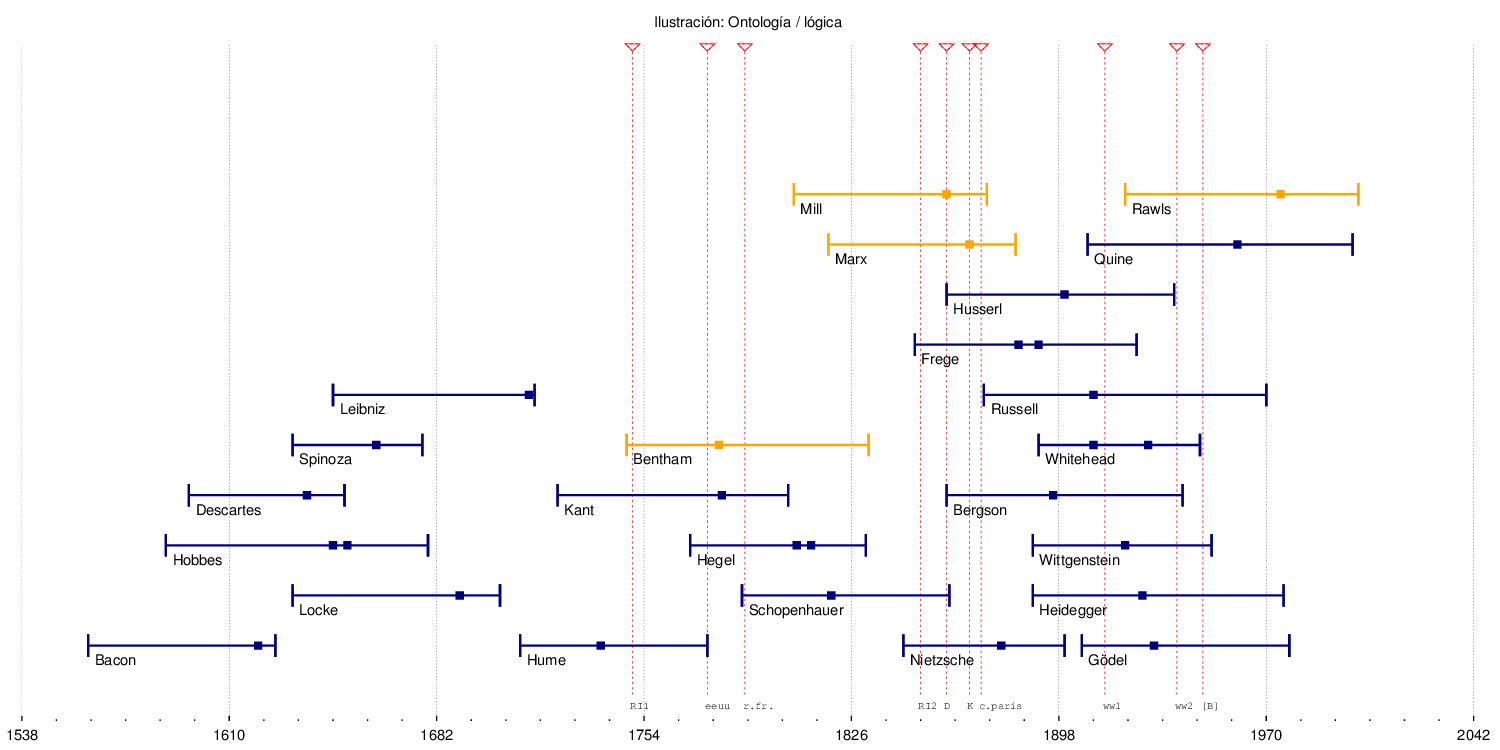
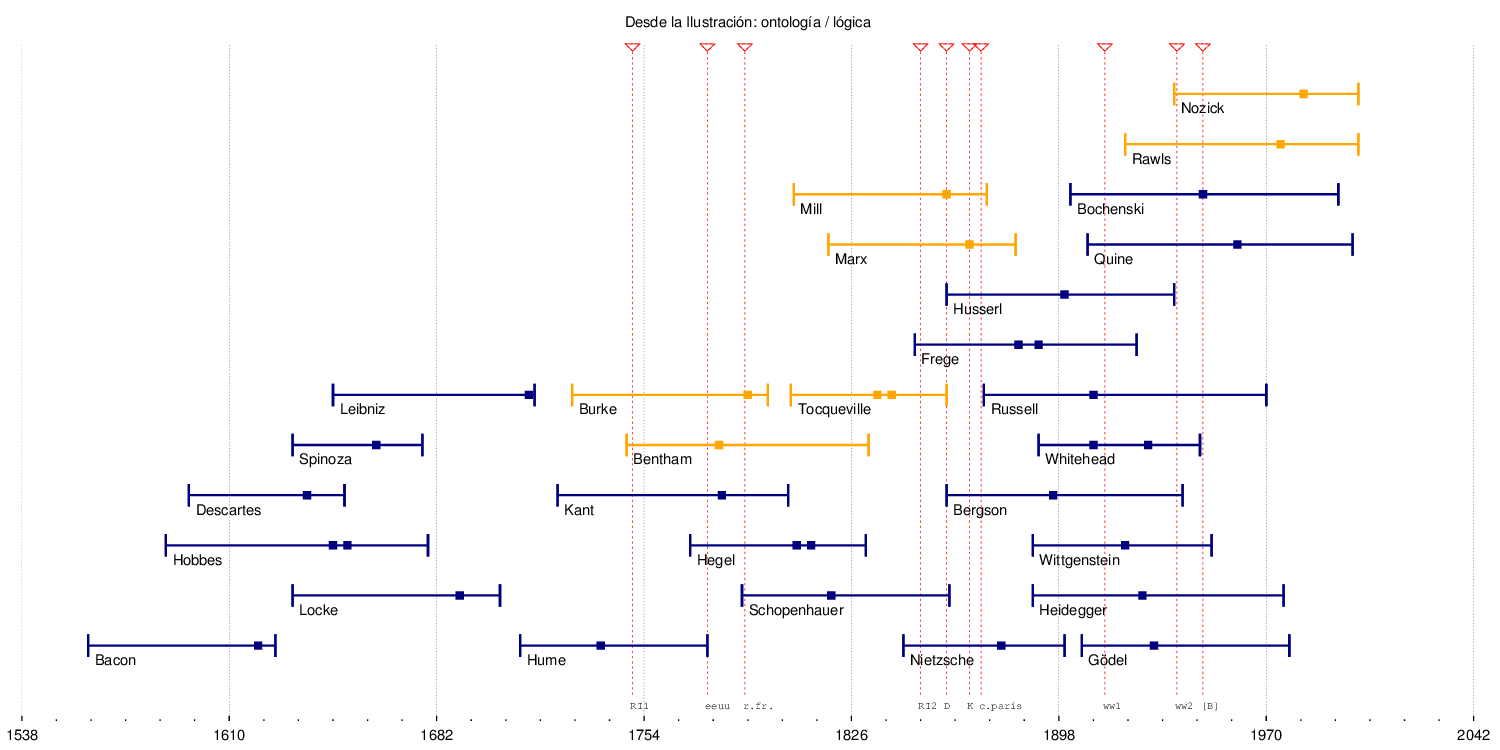
actualización

diff --git a/README.md b/README.md
@@ -1,1 +1,8 @@
-# filosofos
+# Leyenda
+
+Diagrama de filósofos.
+
+## Azul
+
+## Naranja
+
